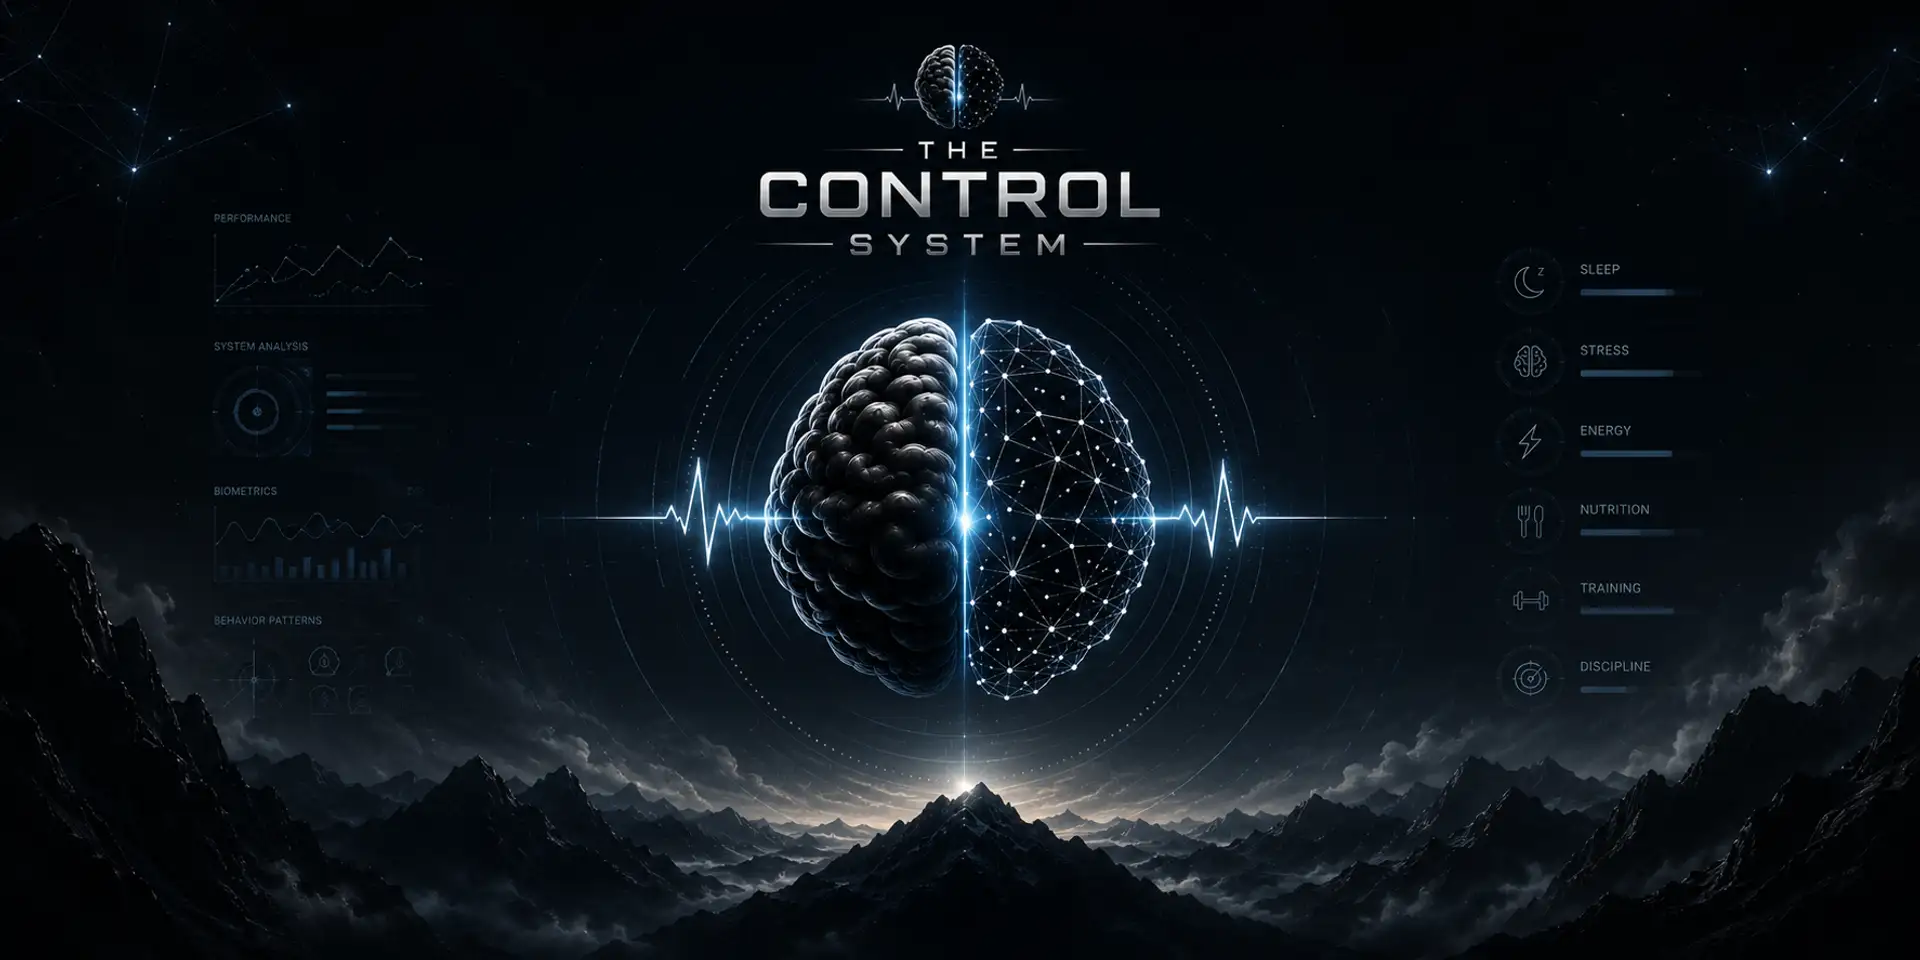
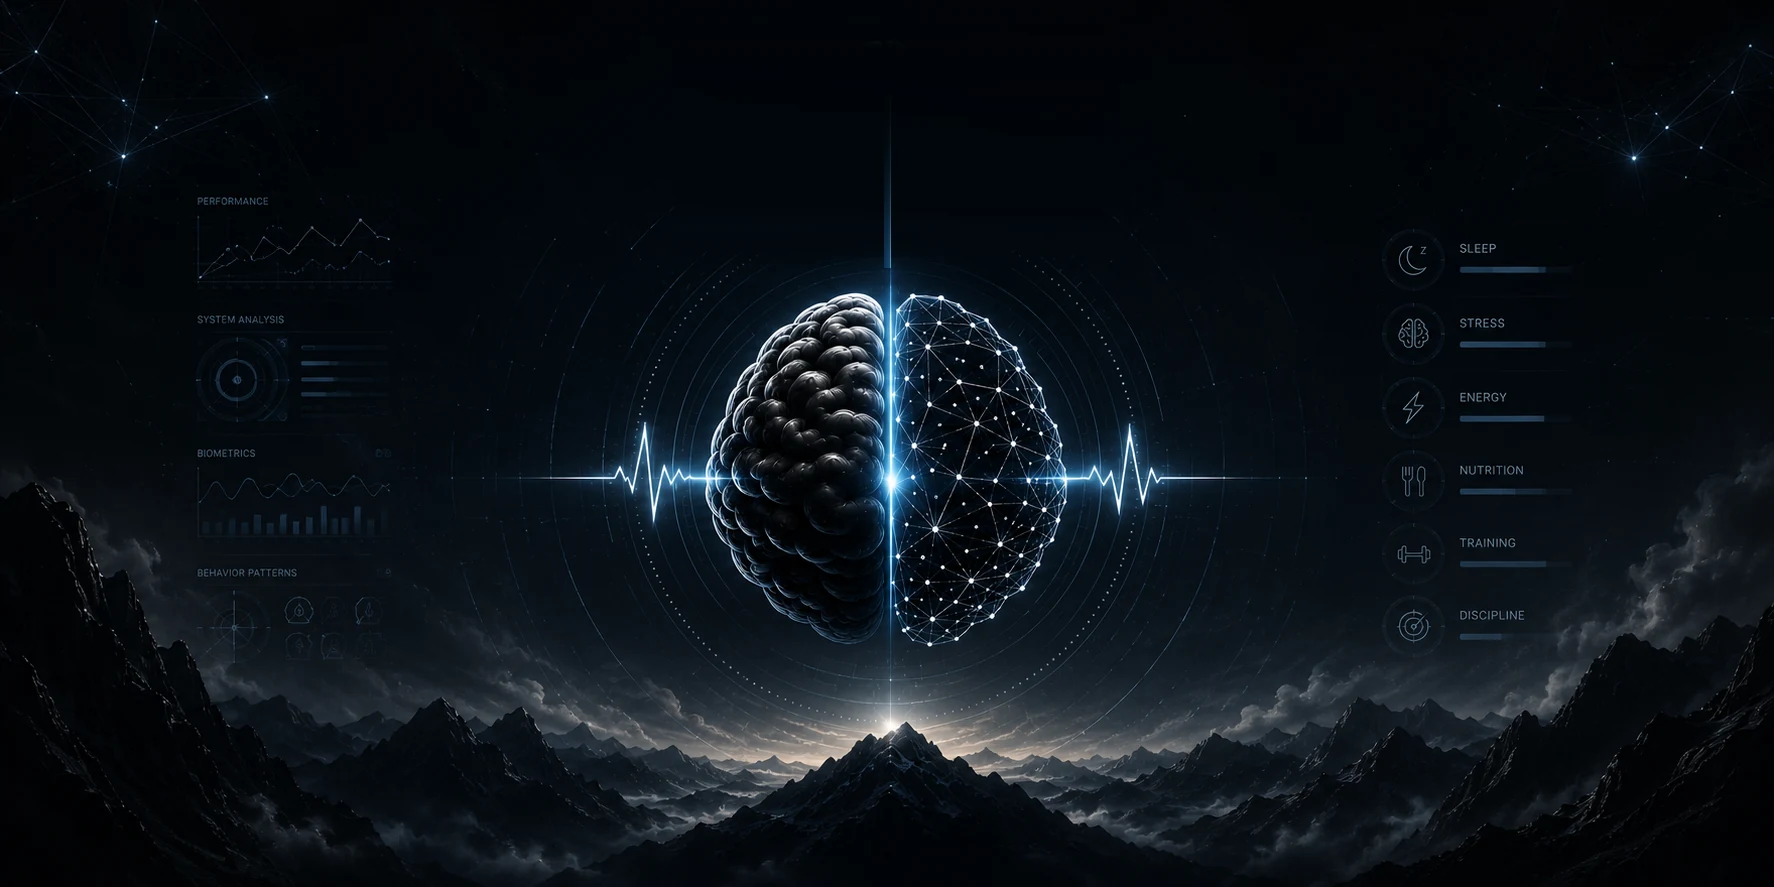
Tlo: wersja z brandingu bez napisu THE CONTROL SYSTEM, lekko wyrazniejsza
Napis z szerokiego tla prześwitywal za naglowkiem i dublowal logo.

Claude-Session: https://claude.ai/code/session_01TeVVPJYDQf4m3JLXPGwtUG

diff --git a/src/components/landing/PageBackground.tsx b/src/components/landing/PageBackground.tsx
@@ -14,11 +14,11 @@ export function PageBackground() {
         <img
           src="/brand/tlo-mobile.webp"
           alt=""
-          className="h-full w-full object-cover opacity-[0.28] md:opacity-[0.32]"
+          className="h-full w-full object-cover opacity-[0.34] md:opacity-[0.42]"
         />
       </picture>
       {/* Winieta: środek ekranu ciemniejszy, żeby tekst nie walczył z mózgiem. */}
-      <div className="absolute inset-0 bg-[radial-gradient(ellipse_70%_60%_at_50%_50%,rgba(5,8,12,0.72)_0%,rgba(5,8,12,0.35)_100%)]" />
+      <div className="absolute inset-0 bg-[radial-gradient(ellipse_70%_60%_at_50%_50%,rgba(5,8,12,0.62)_0%,rgba(5,8,12,0.25)_100%)]" />
       <div className="absolute inset-0 bg-gradient-to-b from-tcs-bg/40 via-transparent to-tcs-bg/70" />
     </div>
   );
